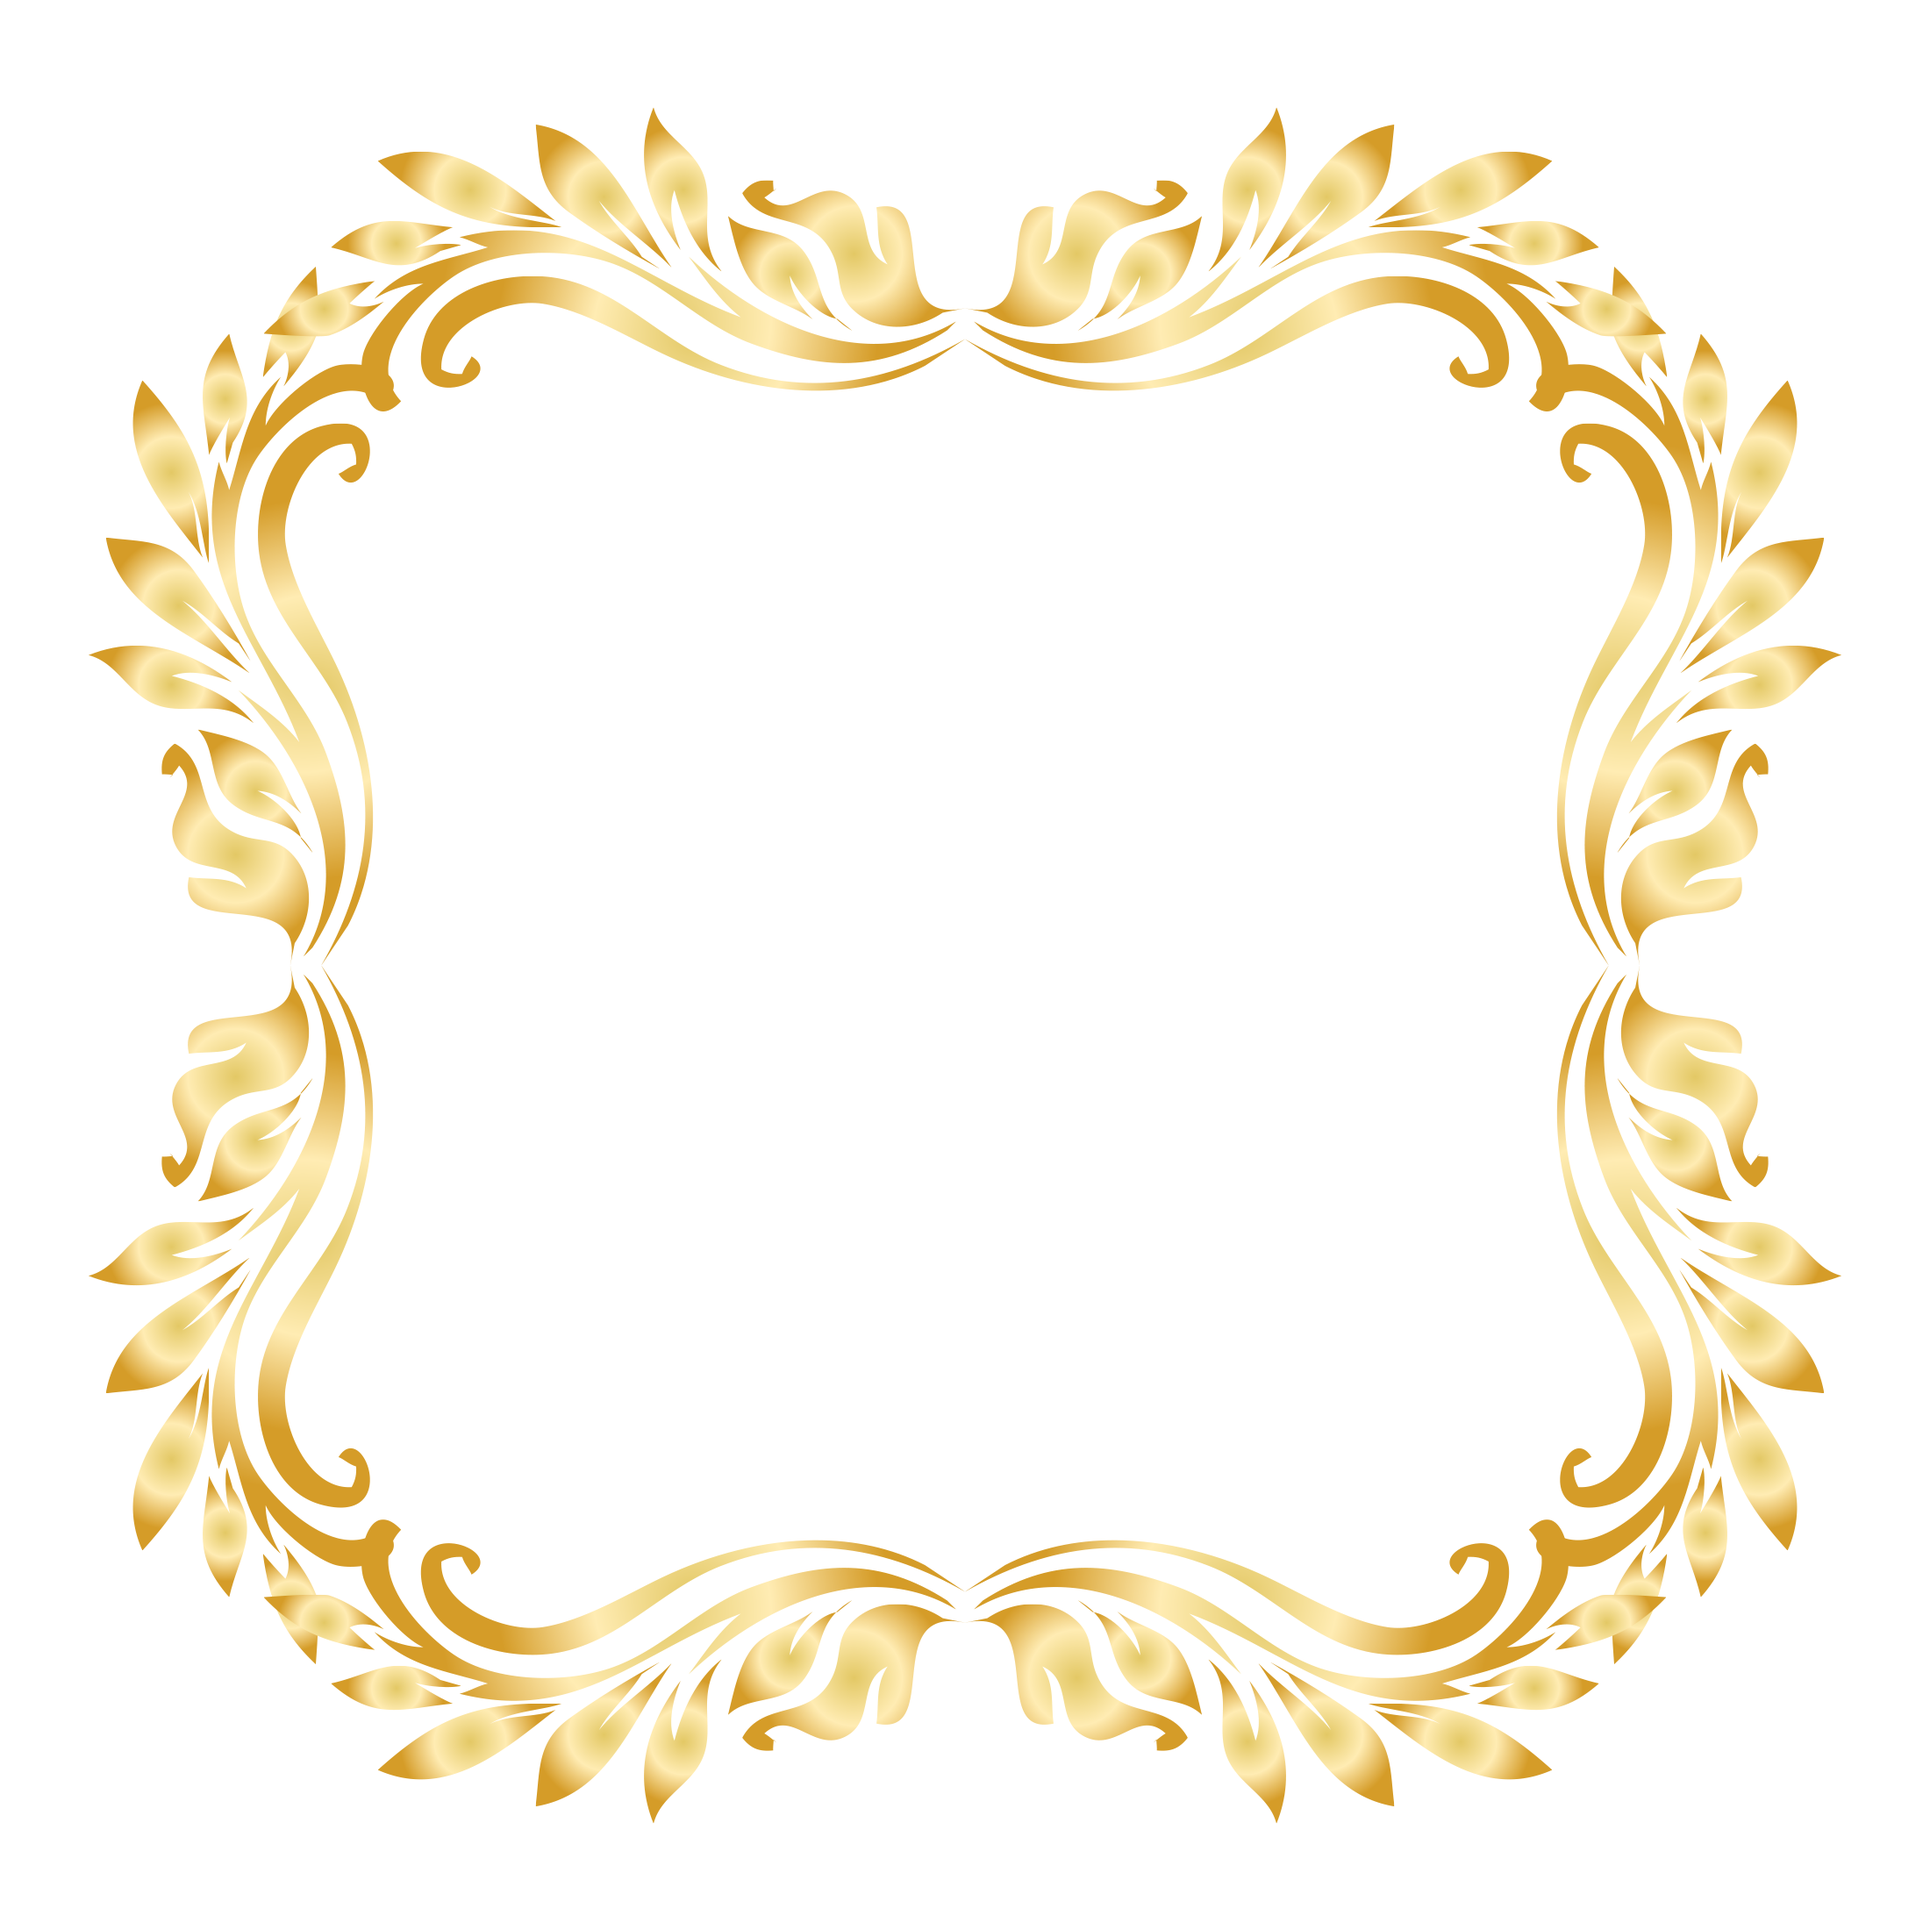
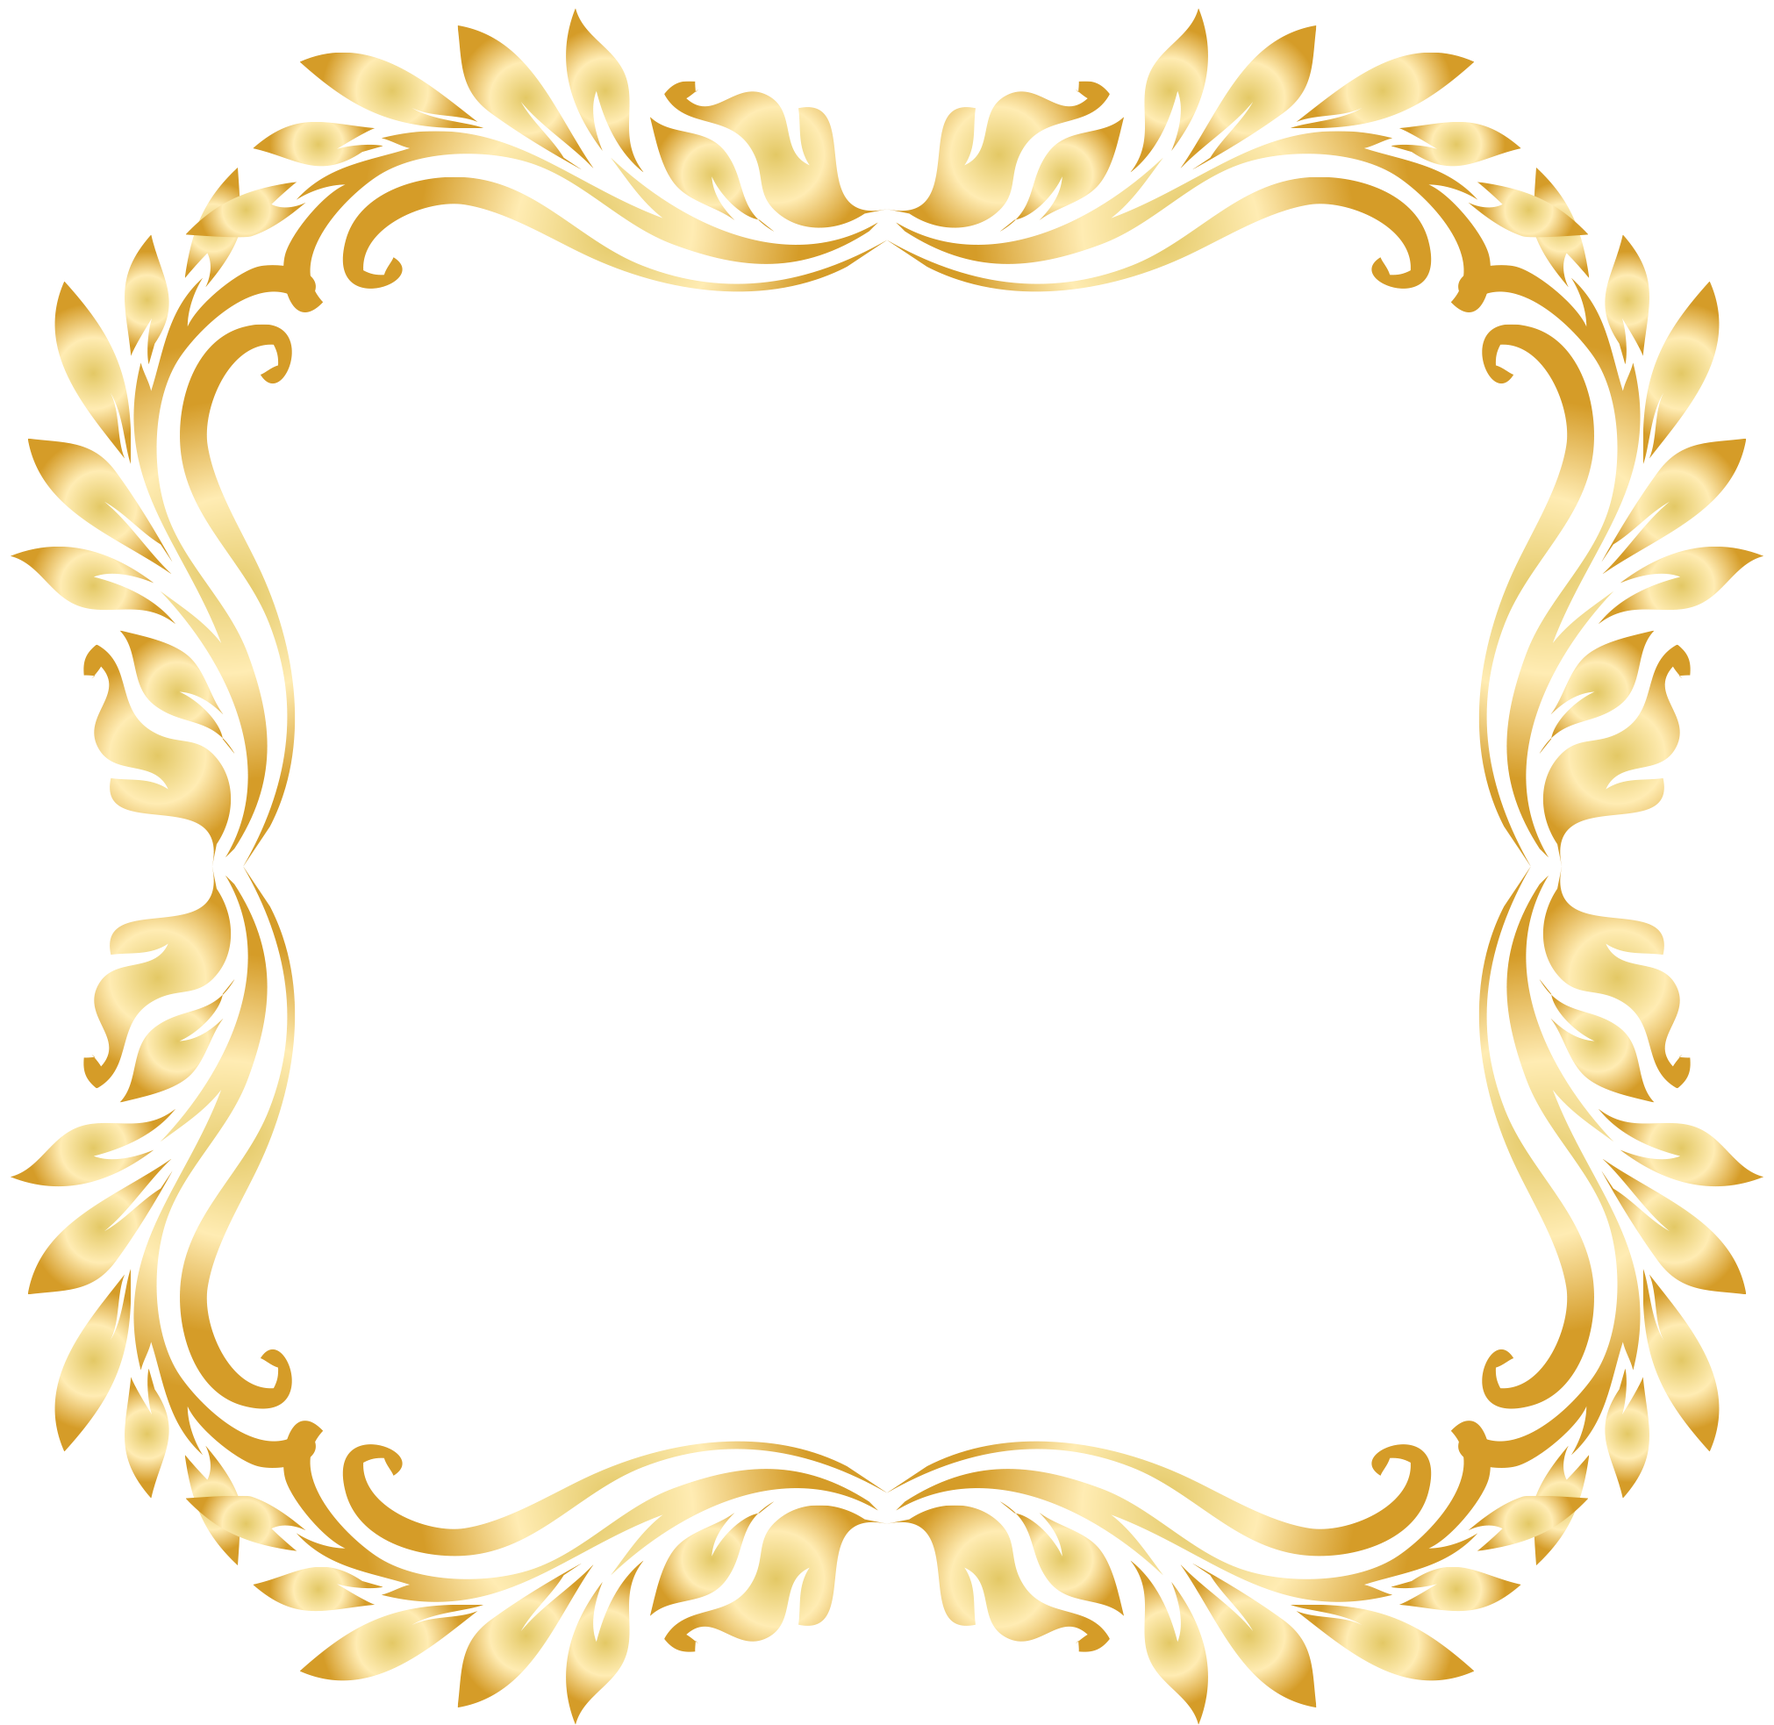
Resize border image

Changed region(s): [[0.0, 0.0, 0.997, 0.9929]]

diff --git a/src/main/java/edu/dccc/dawnsend/DawnsEndFX.java b/src/main/java/edu/dccc/dawnsend/DawnsEndFX.java
@@ -40,7 +40,6 @@ public class DawnsEndFX extends Application {
     private final ImageView characterImage = new ImageView();
     private final ImageView borderImage = new ImageView();
     private final Label sectionLabel = new Label();
-    private final Label bioLabel = new Label();
 
     @Override
     public void start(Stage stage) {
@@ -91,7 +90,7 @@ public class DawnsEndFX extends Application {
 //        characterImage.setPreserveRatio(true);
         characterImage.setSmooth(true);
         borderImage.setFitWidth(250);
-        borderImage.setFitHeight(300);
+        borderImage.setFitHeight(270);
         borderImage.setSmooth(true);
 
         // clip for characterImage to round out corners
@@ -101,10 +100,7 @@ public class DawnsEndFX extends Application {
         characterImage.setClip(clip);
 
         StackPane imageBox = new StackPane(characterImage, borderImage);
-
-        VBox imageBioBox = new VBox(imageBox, );
-        imageBioBox.setPadding(new Insets(10));
-        imageBioBox.setAlignment(Pos.CENTER);
+        imageBox.setAlignment(Pos.CENTER);
 
         // Bottom: buttons
         Button prevButton = new Button("Previous");
